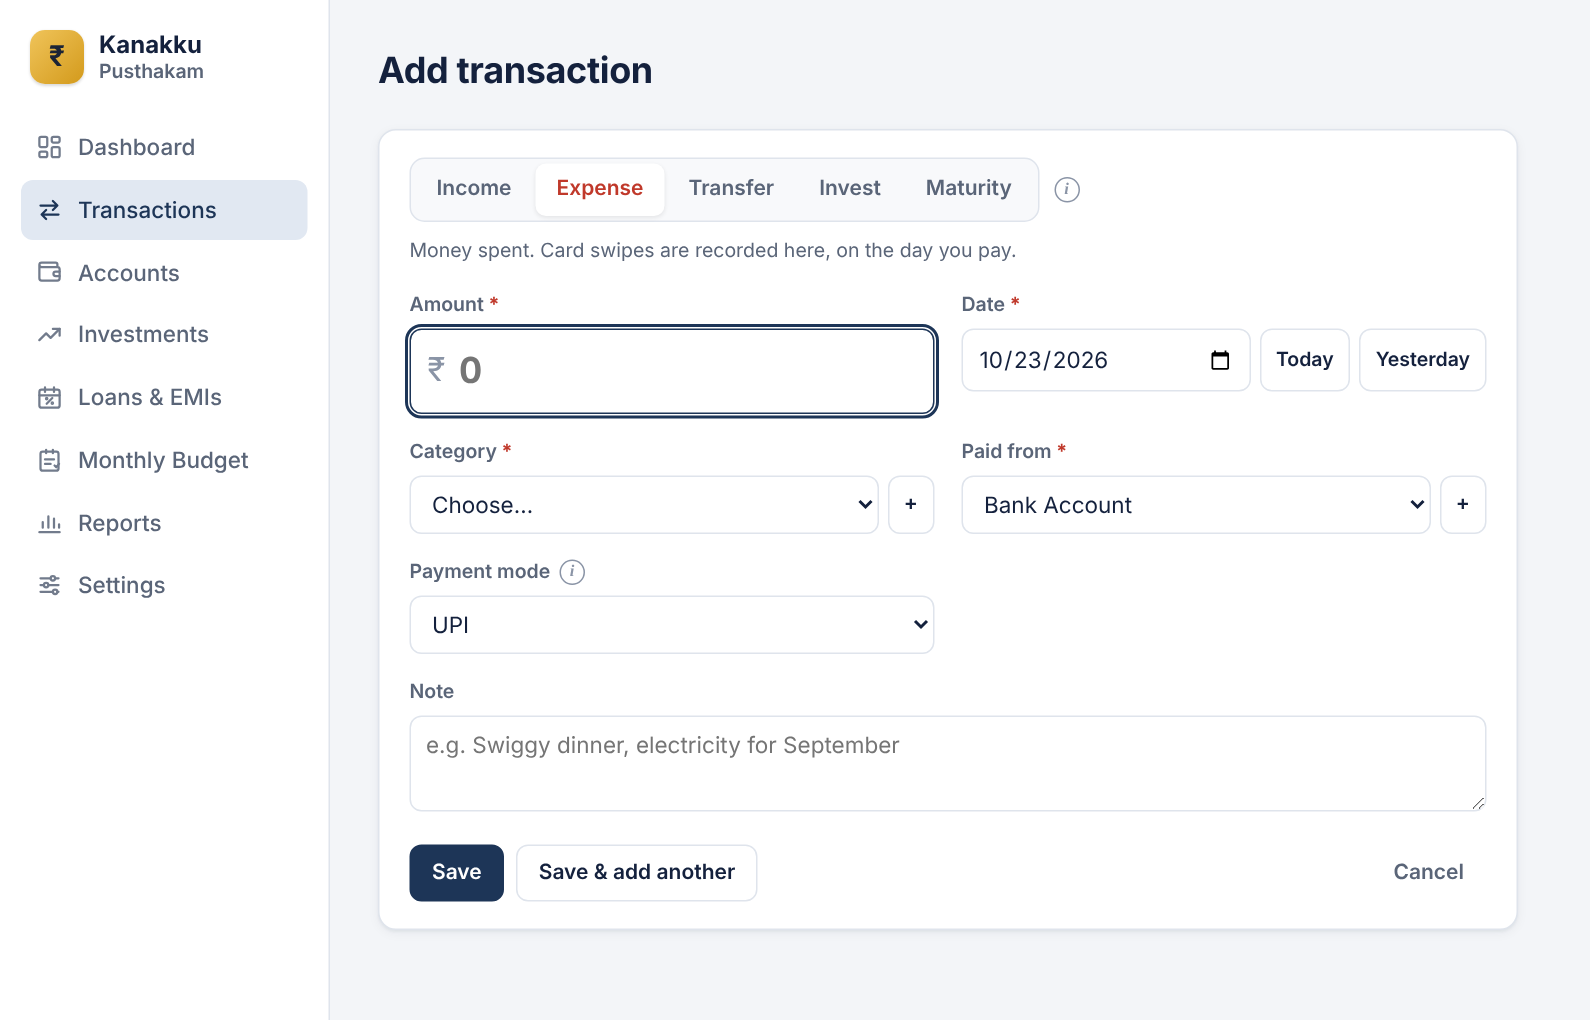
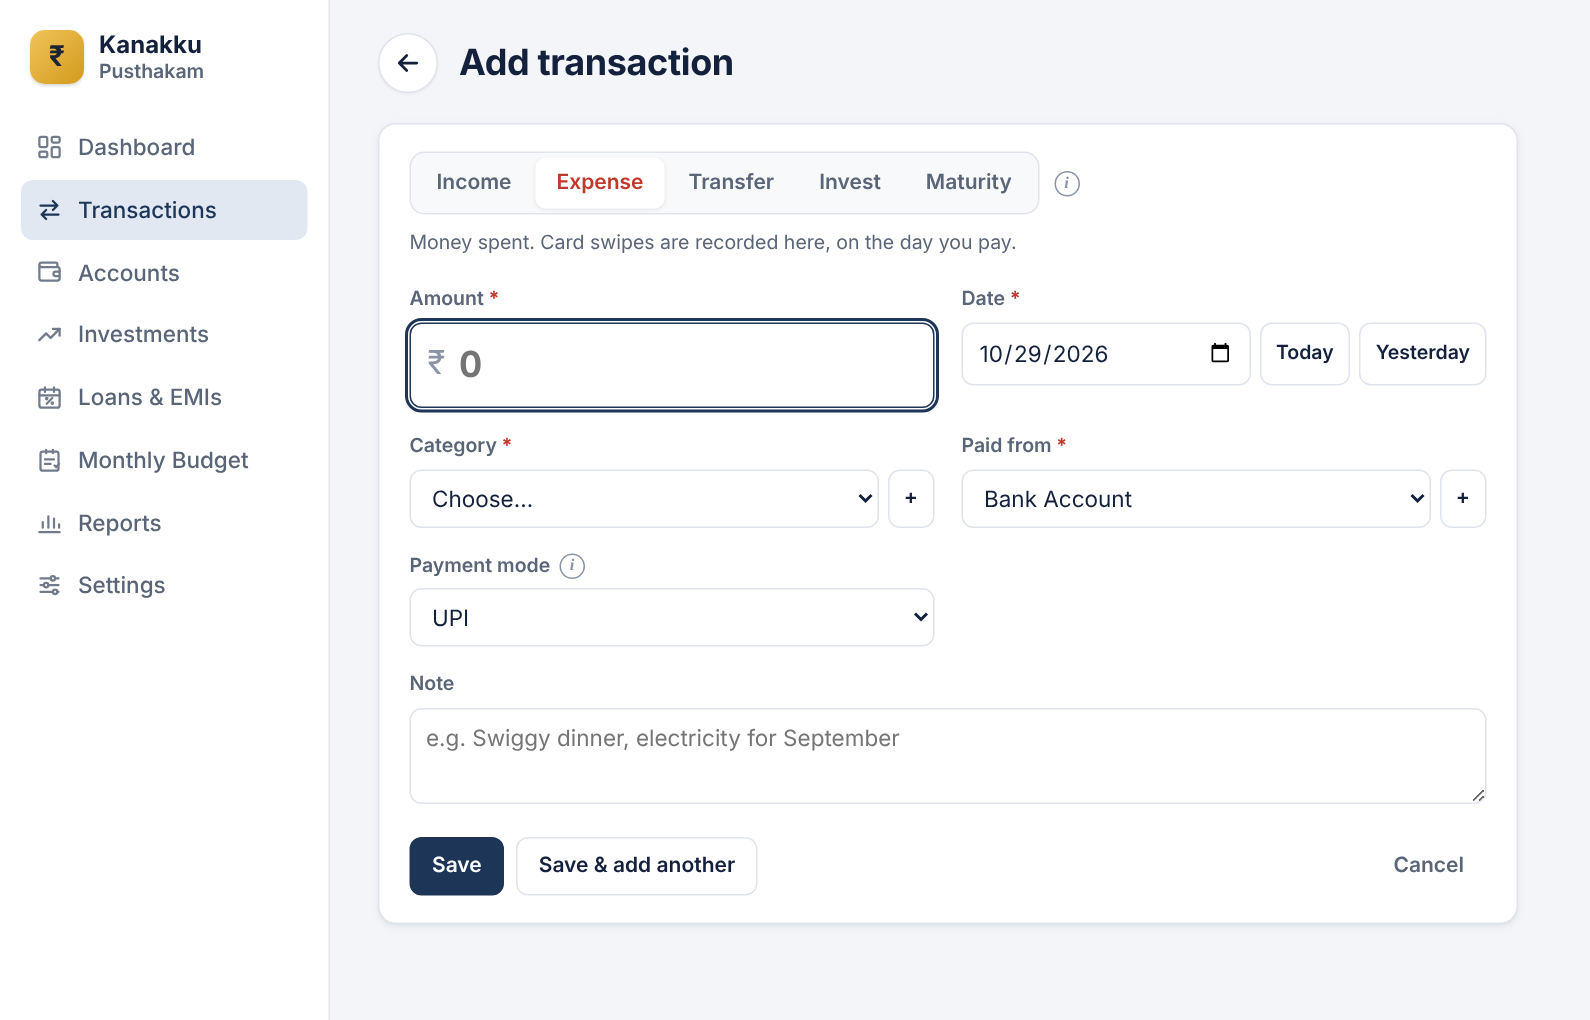
Kanakku Pusthakam 1.2.1
Fixed
- Editing a Fixed Deposit's amount now also changes the money that went
  into it, so "Invested" no longer shows a gain that doesn't exist and
  the bank balance stays right

Changed
- New transactions start with yesterday's date
- A round back button next to the title on Add / Edit transaction,
  investments and loans

diff --git a/frontend/js/views/entry-form.js b/frontend/js/views/entry-form.js
@@ -4,7 +4,7 @@ import { api } from "../api.js";
 import { info } from "../help.js";
 import { active, invalidateMasters, masters } from "../state.js";
 import {
-  $, $$, addDays, confirmDialog, esc, modal, money, options, store, toast, todayISO, KIND_LABEL, TYPE_LABEL,
+  $, $$, addDays, backButton, confirmDialog, esc, modal, money, options, store, toast, todayISO, KIND_LABEL, TYPE_LABEL,
 } from "../util.js";
 
 const TYPE_HELP = {
@@ -49,7 +49,8 @@ export async function render(params) {
     };
   } else {
     const type = TYPE_LABEL[params.type] ? params.type : store.get("lastType", "expense");
-    v = { type, date: todayISO(), amount: "", category_id: "", from_account_id: "", to_account_id: "",
+    v = { type, date: addDays(todayISO(), -1), amount: "",          // new entries start on yesterday
+          category_id: "", from_account_id: "", to_account_id: "",
           payment_mode_id: "", payment_mode_other: "", principal_amount: "", note: "" };
     applyRemembered();
   }
@@ -146,9 +147,9 @@ function draw() {
   const cats = categoryList();
   let html = `
     <div class="page-head">
-      <div><h1>${editing ? "Edit transaction" : "Add transaction"}</h1>
-      ${editing ? `<div class="sub small faint">Created ${esc(editing.created_at)}${editing.updated_at !== editing.created_at ? ` · edited ${esc(editing.updated_at)}` : ""}</div>` : ""}</div>
-      <a class="btn btn-ghost" href="#/entries">← Transactions</a>
+      <div class="title-row">${backButton("#/entries", "Transactions")}
+        <div><h1>${editing ? "Edit transaction" : "Add transaction"}</h1>
+        ${editing ? `<div class="sub small faint">Created ${esc(editing.created_at)}${editing.updated_at !== editing.created_at ? ` · edited ${esc(editing.updated_at)}` : ""}</div>` : ""}</div></div>
     </div>
     <form class="panel panel-pad form-card" id="entry-form" novalidate autocomplete="off">
       <div class="types-row"><div class="seg types" role="tablist" aria-label="Transaction type">

diff --git a/frontend/js/views/loans.js b/frontend/js/views/loans.js
@@ -2,7 +2,7 @@
 import { api } from "../api.js";
 import { info } from "../help.js";
 import { masters, active, invalidateMasters } from "../state.js";
-import { $, $$, confirmDialog, dateLabel, esc, modal, money, options, toast, todayISO } from "../util.js";
+import { $, $$, backButton, confirmDialog, dateLabel, esc, modal, money, options, toast, todayISO } from "../util.js";
 
 const TYPE_LABEL = { cc_emi: "Credit card EMI", personal: "Personal loan", other: "Other loan" };
 const TYPE_COLOR = { cc_emi: "var(--t-share)", personal: "var(--t-chitty)", other: "var(--t-other)" };
@@ -101,14 +101,13 @@ function drawLoan() {
   const hasEvents = rows.some((r) => r.event_id) ;
   $("#view").innerHTML = `
     <div class="page-head">
-      <div>
-        <a class="small" href="#/loans">← Loans &amp; EMIs</a>
-        <h1 style="margin-top:6px">${esc(ln.name)}</h1>
+      <div class="title-row">${backButton("#/loans", "Loans & EMIs")}<div>
+        <h1>${esc(ln.name)}</h1>
         <div class="sub muted small" style="display:flex;gap:8px;align-items:center;flex-wrap:wrap">${chip(ln.loan_type)}
           ${ln.lender ? `<span>${esc(ln.lender)}</span>` : ""}
           <span>· ${esc(ln.loan_type === "cc_emi" ? `on ${ln.account}, ${ln.category}` : `paid from ${ln.bank_account}`)}</span>
           ${open ? "" : `<span class="status-pill on">Closed ${ln.closed_date ? esc(dateLabel(ln.closed_date)) : ""}</span>`}</div>
-      </div>
+      </div></div>
       <div class="toolbar">${hasEvents ? b("undo", "Undo last") : ""}${open ? b("prepay", "Prepay") + b("close", "Close loan") : ""}
         ${b("edit", "Edit")}${open && s.next ? b("pay", "Pay EMI", true) : ""}</div>
     </div>

diff --git a/frontend/js/views/investment.js b/frontend/js/views/investment.js
@@ -2,7 +2,7 @@
 import { api } from "../api.js";
 import { info } from "../help.js";
 import { masters, active, invalidateMasters } from "../state.js";
-import { $, $$, confirmDialog, dateLabel, esc, modal, money, options, toast, todayISO, TYPE_LABEL as ENTRY_LABEL } from "../util.js";
+import { $, $$, backButton, confirmDialog, dateLabel, esc, modal, money, options, toast, todayISO, TYPE_LABEL as ENTRY_LABEL } from "../util.js";
 import { gainCls, investmentForm, pct, typeChip } from "./investments.js";
 
 let inv, M, id;
@@ -29,14 +29,13 @@ function draw() {
   const since = d.start_date || a.opening_date;
   $("#view").innerHTML = `
     <div class="page-head">
-      <div>
-        <a class="small" href="#/investments">← Investments</a>
-        <h1 style="margin-top:6px">${esc(a.name)}</h1>
+      <div class="title-row">${backButton("#/investments", "Investments")}<div>
+        <h1>${esc(a.name)}</h1>
         <div class="sub muted small" style="display:flex;gap:8px;align-items:center;flex-wrap:wrap">${typeChip(inv.type.name, inv.type.color)}
           ${d.held_at || d.institution ? `<span>${esc(d.held_at || d.institution)}</span>` : ""}
           ${since ? `<span>· since ${esc(dateLabel(since))}</span>` : ""}
           ${s.closed || !a.active ? `<span class="status-pill off">Closed</span>` : ""}</div>
-      </div>
+      </div></div>
       <div class="toolbar">${a.active ? buttons(t, s) : ""}<button class="btn" data-do="edit">Edit</button>
         ${a.active ? (s.closed ? "" : `<button class="btn" data-do="close">Close</button>`)
           : `<button class="btn" data-do="reopen">${d.closed_on ? "Undo closing" : "Reopen"}</button>`}

diff --git a/frontend/css/style.css b/frontend/css/style.css
@@ -161,6 +161,13 @@ h3 { font-size: 14px; font-weight: 650; }
 
 .page-head { display: flex; align-items: center; justify-content: space-between; gap: 16px; flex-wrap: wrap; margin-bottom: 20px; }
 .page-head .sub { margin-top: 4px; }
+.title-row { display: flex; align-items: flex-start; gap: 14px; min-width: 0; }
+.back-btn { flex: none; width: 40px; height: 40px; display: inline-flex; align-items: center; justify-content: center;
+  border-radius: 50%; background: var(--panel); border: 1px solid var(--line); color: var(--ink);
+  box-shadow: 0 1px 2px rgba(0, 0, 0, .05); transition: background .15s, border-color .15s, transform .15s;
+  margin-top: -6px; }   /* centred on the title line */
+.back-btn:hover { background: var(--panel-2); border-color: var(--ink-3); transform: translateX(-2px); }
+.back-btn:focus-visible { outline: 2px solid var(--brand); outline-offset: 2px; }
 .toolbar { display: flex; align-items: center; gap: 8px; flex-wrap: wrap; }
 
 /* ---------- panels and grids */

diff --git a/frontend/js/util.js b/frontend/js/util.js
@@ -27,6 +27,12 @@ const trim = (x) => (x >= 10 ? Math.round(x).toString() : x.toFixed(1).replace(/
 const MONTHS = ["Jan", "Feb", "Mar", "Apr", "May", "Jun", "Jul", "Aug", "Sep", "Oct", "Nov", "Dec"];
 const MONTHS_LONG = ["January", "February", "March", "April", "May", "June", "July", "August", "September", "October", "November", "December"];
 
+/** The round ← button shown left of a page title. `to` is the page it goes back to. */
+export function backButton(href, to) {
+  return `<a class="back-btn" href="${href}" title="Back to ${esc(to)}" aria-label="Back to ${esc(to)}">`
+    + `<svg viewBox="0 0 24 24" width="20" height="20" fill="none" stroke="currentColor" stroke-width="2.2" stroke-linecap="round" stroke-linejoin="round" aria-hidden="true"><path d="M19 12H5M11 18l-6-6 6-6"/></svg></a>`;
+}
+
 export function todayISO() {
   const d = new Date();
   return `${d.getFullYear()}-${pad(d.getMonth() + 1)}-${pad(d.getDate())}`;

diff --git a/backend/services/investments.py b/backend/services/investments.py
@@ -699,6 +699,10 @@ def update(account_id, p):
     if t not in OWN_VALUE:
         c["current_value"] = c["current_value_date"] = None
     conn = get_db()
+    if t == "fd" and old["inv_type"] == "fd":
+        money_in, moved = _fd_money_in(acc), c["start_date"] != old["start_date"]
+        if c["amount"] != old["amount"] or moved or (money_in is not None and money_in != c["amount"]):
+            _sync_fd_deposit(acc, c, move_date=moved)   # "invested" (and the bank, if it paid) follows the deposit
     if p.get("name") and p["name"].strip() != acc["name"]:
         if one("SELECT id FROM accounts WHERE name = ? COLLATE NOCASE AND id != ?", (p["name"].strip(), account_id)):
             raise ApiError("That name is already used", field="name")
@@ -723,6 +727,35 @@ def update(account_id, p):
                  list(c.values()) + [account_id])
     conn.commit()
     return get(account_id)
+
+
+def _fd_money_in(acc):
+    """The money that went into an FD: its one deposit transaction, or the amount already held (None if unclear)."""
+    deposits = [f for f in _flows(acc["id"], None) if f["type"] == "invest" and f["to_account_id"] == acc["id"]]
+    if len(deposits) == 1 and not acc["opening_balance"]:
+        return deposits[0]["amount"]
+    return acc["opening_balance"] if not deposits else None
+
+
+def _sync_fd_deposit(acc, c, move_date=True):
+    """An FD's deposit was edited: change the money that went into it to match.
+
+    An FD you already held keeps its deposit as the amount already invested (opening balance); an FD paid from a
+    bank has one invest transaction, whose amount and date follow the deposit (so the bank's balance is right too).
+    """
+    flows = _flows(acc["id"], None)
+    if any(f["from_account_id"] == acc["id"] for f in flows):
+        raise ApiError("Money has already come back from this FD, so its deposit can't be changed here", field="amount")
+    deposits = [f for f in flows if f["type"] == "invest" and f["to_account_id"] == acc["id"]]
+    if not deposits:
+        get_db().execute("UPDATE accounts SET opening_balance = ?, opening_date = ? WHERE id = ?",
+                         (c["amount"], c["start_date"], acc["id"]))
+    elif len(deposits) == 1 and not acc["opening_balance"]:
+        e = entries_svc.get(deposits[0]["id"])
+        entries_svc.update(e["id"], {**e, "amount": str(to_rupees(c["amount"])),
+                                     "date": c["start_date"] if move_date and c["start_date"] else e["date"]})
+    else:
+        raise ApiError("This FD has more than one deposit. Change them in Transactions instead", field="amount")
 
 
 def set_value(account_id, p):

diff --git a/tests/test_investments.py b/tests/test_investments.py
@@ -202,6 +202,34 @@ class InvestmentsTest(unittest.TestCase):
         self.assertEqual(g["account"]["name"], "SBI FD 2y")
         self.assertEqual(g["opening_balance"], 50000)             # already-held FD: deposit counted as invested
 
+    def test_editing_fd_deposit_keeps_invested_in_step(self):
+        today = TODAY.isoformat()
+        # paid from the bank: the deposit transaction (and the bank balance) follow the new amount
+        fd = self.new(name="New FD", inv_type="fd", amount="16252", rate="6.25", start_date=today, term_months=12,
+                      paid_from_account_id=self.bank)
+        fid = fd["account"]["id"]
+        g = self.c.put(f"/api/investments/{fid}", json={"amount": "16372"}).get_json()
+        self.assertEqual((g["summary"]["invested"], g["summary"]["value"]), (16372, 16372))     # no made-up gain
+        self.assertEqual(self.bank_balance(), -16372)
+        # an FD already held: the amount already invested follows
+        held = self.new(name="Held FD", inv_type="fd", amount="50000", rate="7", start_date="2025-01-01", term_months=24)
+        hid = held["account"]["id"]
+        g = self.c.put(f"/api/investments/{hid}", json={"amount": "55000"}).get_json()
+        self.assertEqual((g["opening_balance"], g["summary"]["invested"]), (55000, 55000))
+        # a deposit already out of step (from before this fix) is repaired by any save
+        with self.app.app_context():
+            from backend.db import get_db
+            get_db().execute("UPDATE investment_details SET amount = 1700000 WHERE account_id = ?", (fid,))
+            get_db().commit()
+        g = self.c.put(f"/api/investments/{fid}", json={"name": "New FD 2"}).get_json()
+        self.assertEqual(g["summary"]["invested"], 17000)
+        self.assertEqual(self.bank_balance(), -17000)
+        # once money has come back, the deposit can't change here
+        self.act(hid, "redeem", amount="10000", date=today, to_account_id=self.bank, principal_amount="10000")
+        r = self.c.put(f"/api/investments/{hid}", json={"amount": "60000"})
+        self.assertEqual(r.status_code, 400, r.get_json())
+        self.assertEqual(self.c.put(f"/api/investments/{hid}", json={"rate": "7.1"}).status_code, 200)  # other edits fine
+
     def test_plain_investment_account_gets_details(self):
         r = self.c.post("/api/masters/accounts", json={"name": "KSFE Chitty", "kind": "investment", "inv_type": "chitty"})
         self.assertEqual(r.status_code, 201)

diff --git a/README.md b/README.md
@@ -30,7 +30,7 @@ Stop the app with **Ctrl+C** in the terminal.
 
 ## Features
 
-- **Fast entry:** income, expense, transfer, invest and maturity, with today's date pre-filled and the payment mode
+- **Fast entry:** income, expense, transfer, invest and maturity, with yesterday's date pre-filled (one tap for today) and the payment mode
   (UPI, card, cash…) picked from the account
 - **Credit cards done right:** a card swipe is the expense; paying the bill is a transfer, so nothing is counted twice.
   Accounts shows what you owe on each card, its limit, the next due date and the EMIs running on it

diff --git a/CHANGELOG.md b/CHANGELOG.md
@@ -1,5 +1,16 @@
 # Changelog
 
+## 1.2.1 (2026-10-30)
+
+### Fixed
+- Editing a Fixed Deposit's amount now also changes the money that went into it (the deposit transaction, or the
+  amount already invested), so "Invested" no longer shows a gain that doesn't exist and the bank balance stays right.
+  If an FD is already out of step, open it, click **Edit** and **Save** to set it right
+
+### Changed
+- New transactions start with **yesterday's** date (Today is one tap away)
+- A round back button next to the title on Add / Edit transaction, investments and loans
+
 ## 1.2.0 (2026-10-23)
 
 ### New
